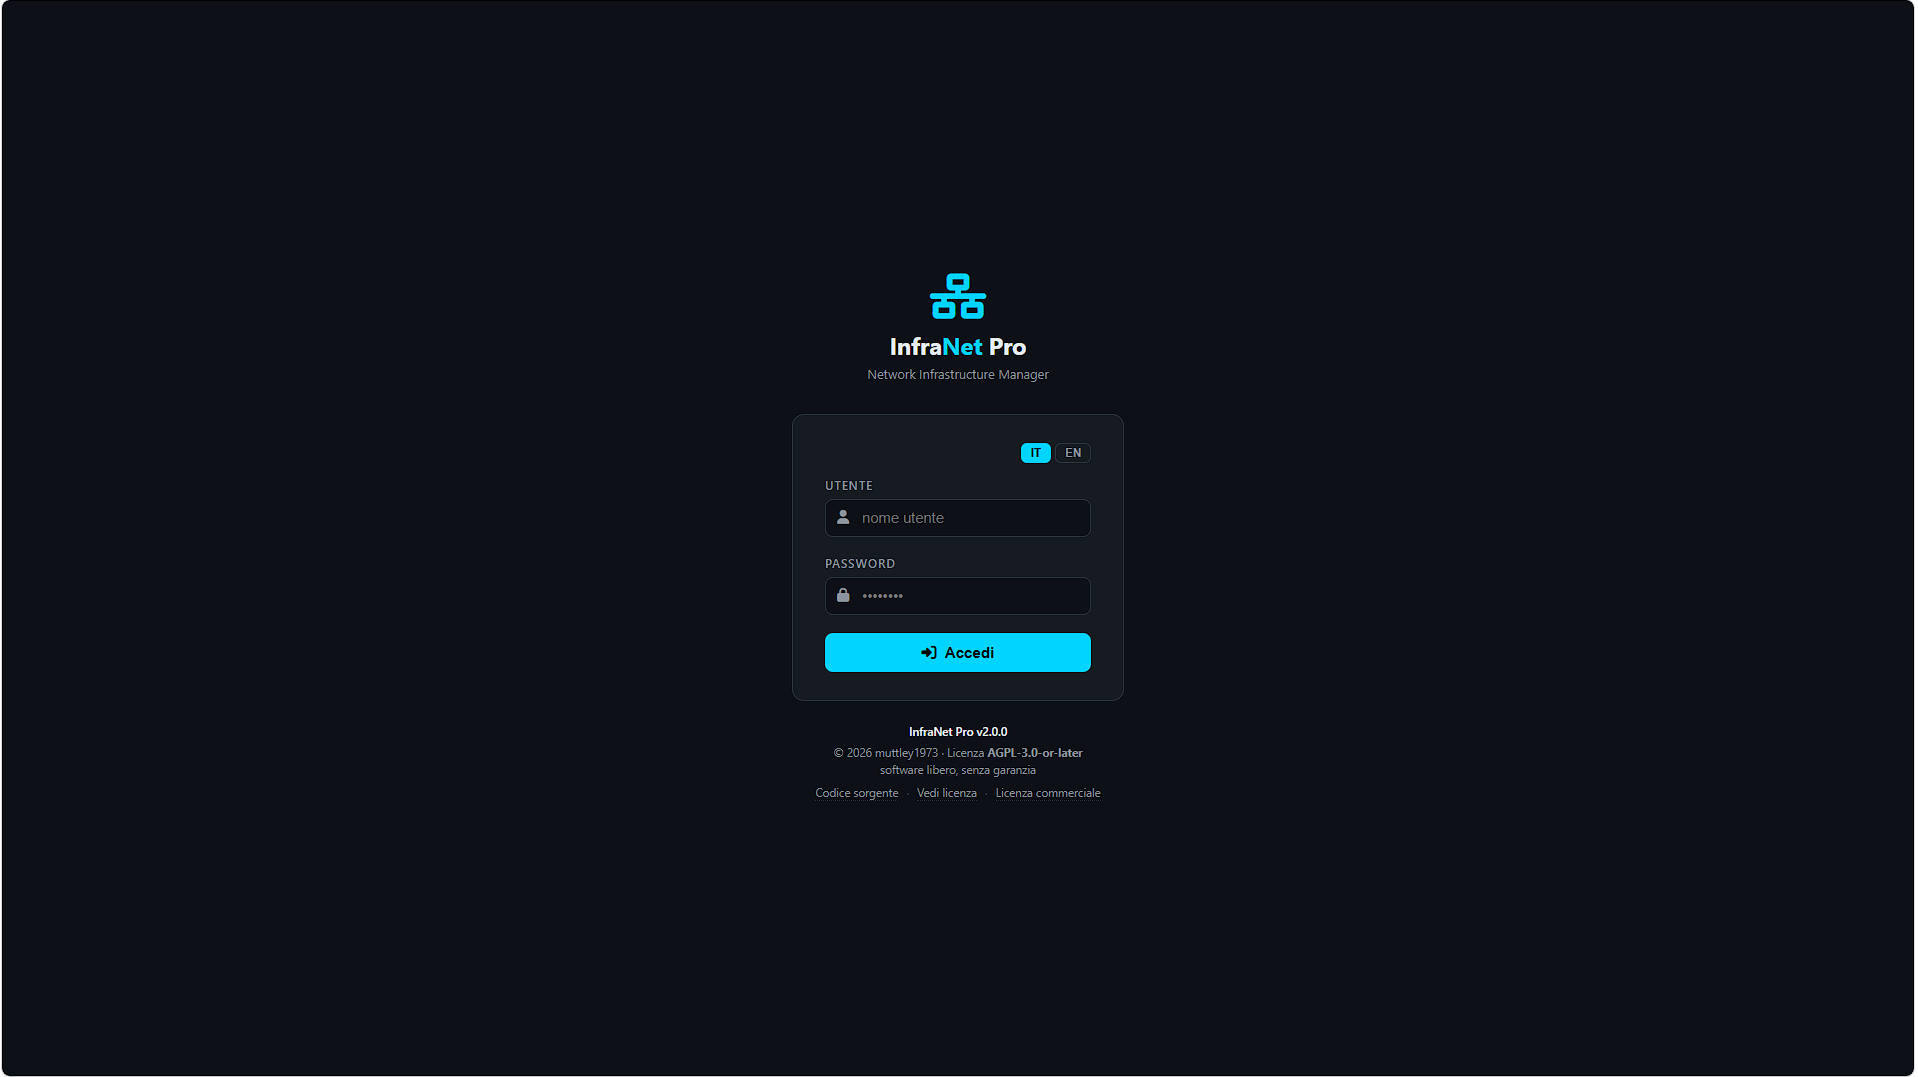
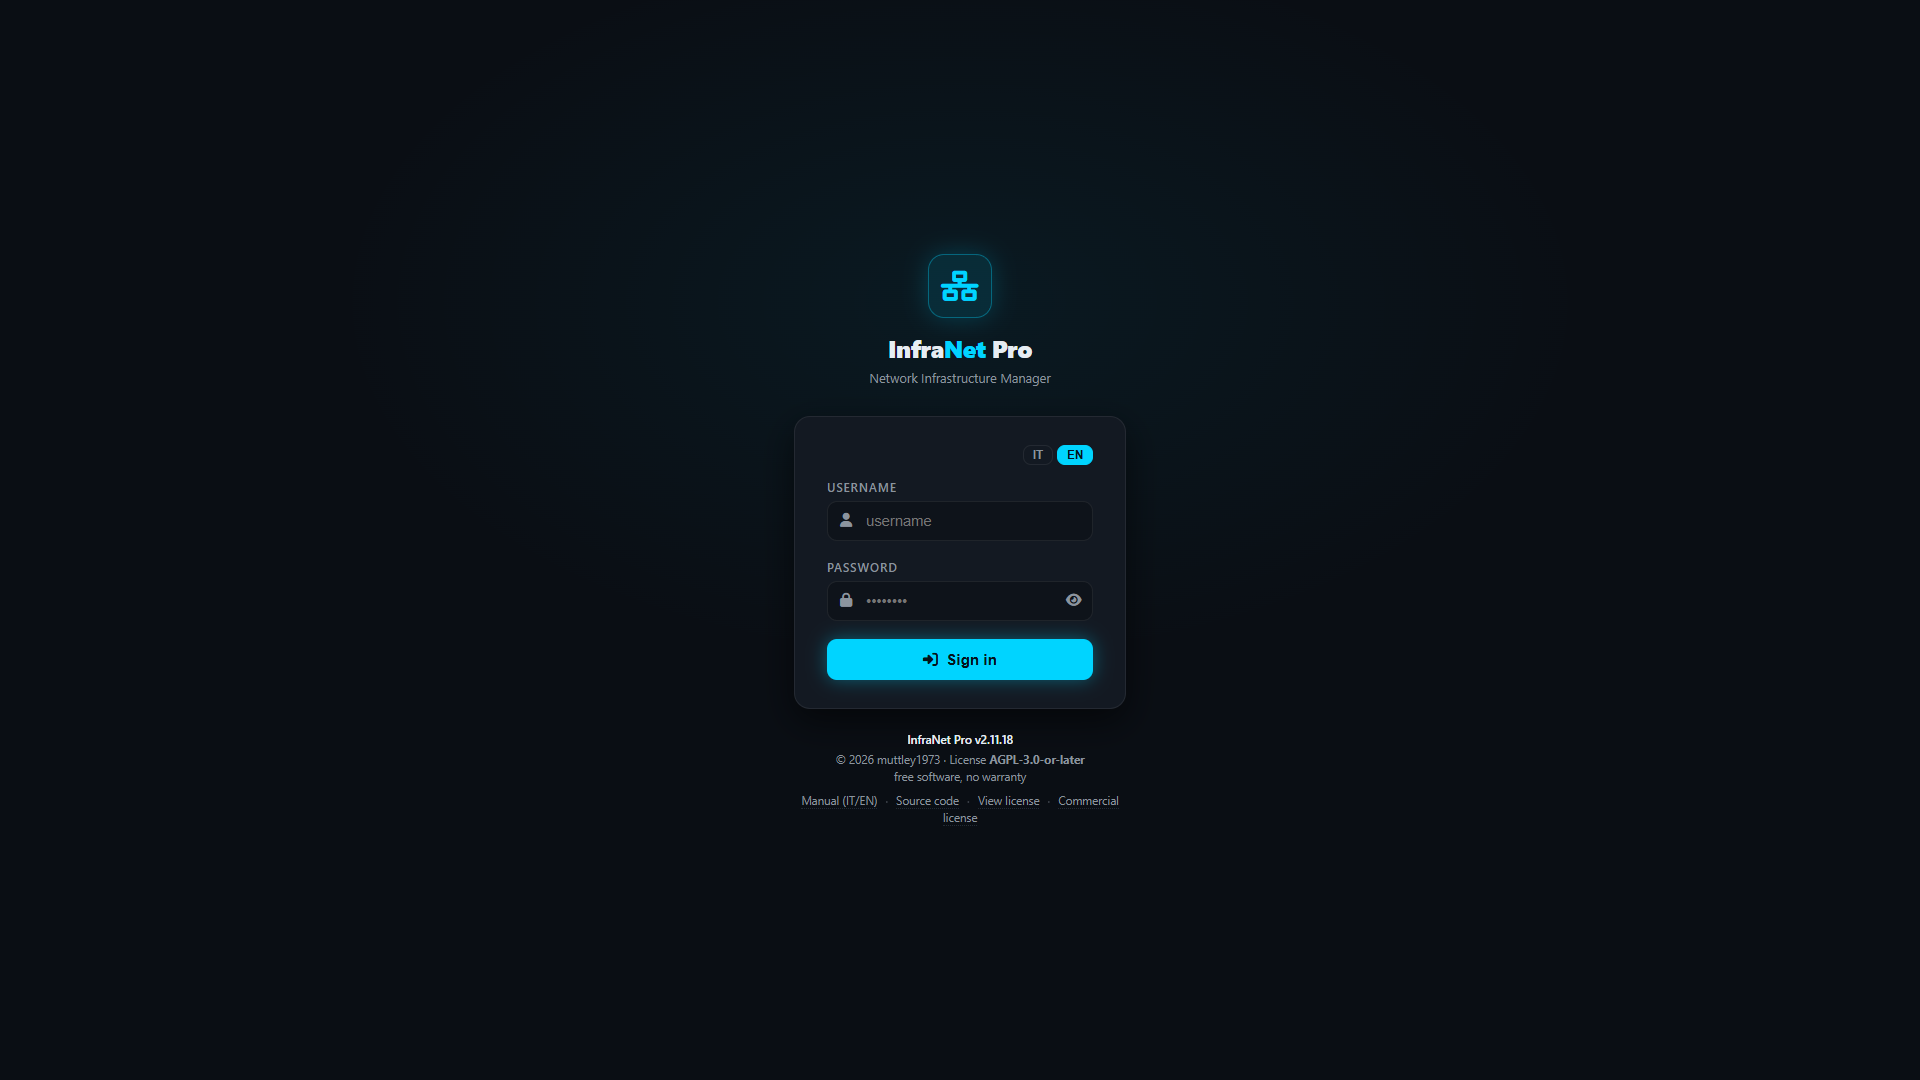
docs(images): retake the landing screenshots on the current interface
Every screenshot of the app is taken again on the current UI, at the same zoom,
panel widths, rack zoom, filters, selection and cable tip as the picture it
replaces, and all of them are now in English (the login, Discover and AI shots
were Italian). The demo GIF is rebuilt from them (3.98 MB, was 4.9 MB).

Two pictures could not be a straight retake. The Verify no longer opens a
dialog: its outcome lives in the Dashboard, so verify.png is now the
Conformance column after a check, and the README alt text says what that
picture shows. The AI chat has one real answer from the model (one call, on an
isolated copy of the configuration).

All of it is demo data. The Discover rows are the demo project's devices run
through the real classifier, and the check ran against stubbed network probes:
nothing real was scanned. The multi-site picture uses the demonstration
organisation, with addresses from the documentation ranges.

diff --git a/README.md b/README.md
@@ -64,7 +64,7 @@
 That is the whole idea: a document you can hand to a client, that tells you what it could not check.
 
 <p align="center">
-  <img src="GitHub%20Images/verify.png" width="640" alt="The Documentation check: seven declared LAN networks each with its own verdict, one of them marked not reached by the check with its 13 unverified devices nested underneath; an IP change on the same MAC; two devices on the network that the document does not know, each with the switch port they were seen on; and documented-but-absent left at zero because nothing proved an absence"><br>
+  <img src="GitHub%20Images/verify.png" width="640" alt="The Dashboard's Conformance column after a check: every SNMP device answering, one address that changed on the same MAC, two devices on the network that the document does not know, and the seven declared LAN networks each with its own verdict, one of them marked not reached by the check with its 13 unverified devices nested underneath"><br>
   <em><b>The check, on a demo network.</b> A subnet marked <i>not reached by the check</i> carries its unverified devices — they are not reported as absent, because nothing proved an absence. A MAC that moved address is a <i>changed IP</i>, not a new device.</em>
 </p>
 
